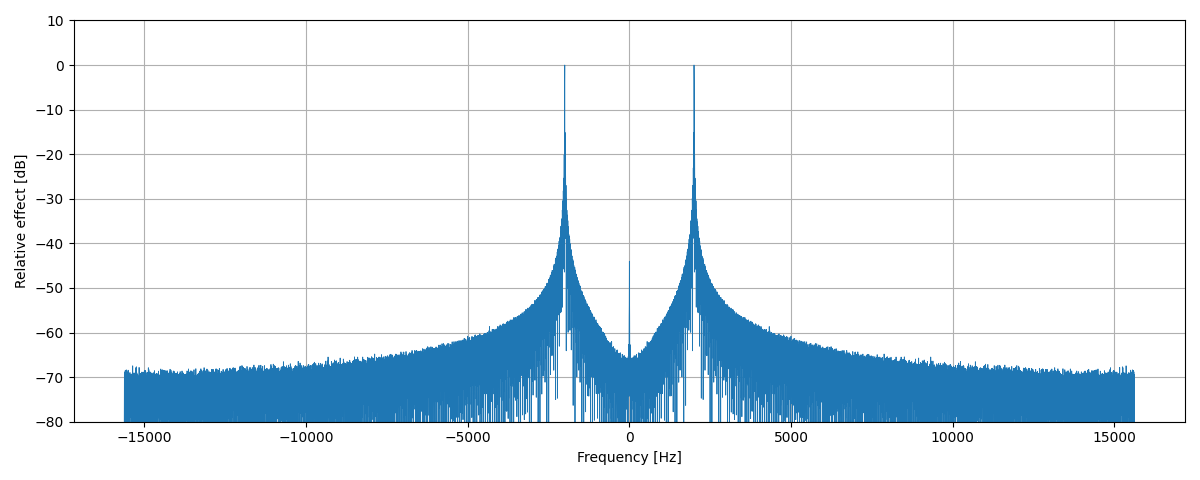
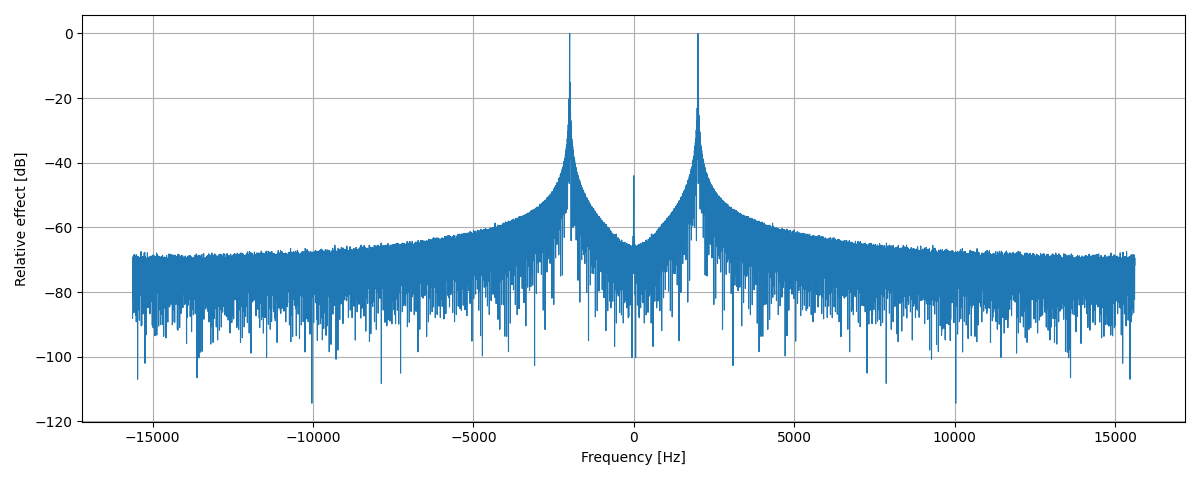
feat: hanning window

diff --git a/lab-1/script/main.py b/lab-1/script/main.py
@@ -1,7 +1,9 @@
 import sys
+from scipy.signal.windows import hann
+import numpy as np
 
 from raspi_import import raspi_import
-from plot import time_plot, spectrum_plot
+from plot import time_plot, spectrum_plot, bode_plot
 from fft import calc_spectrum
 
 missing_file_path_error = (
@@ -10,7 +12,7 @@ missing_file_path_error = (
 
 BIT_RESOLUTION = 4096
 V_REF = 3.3
-DC_VALUE = 1
+DC_OFFSET = 1
 
 
 def main():
@@ -21,17 +23,40 @@ def main():
 
     file_path = sys.argv[1]
 
+    #
+    # import adc data and remove dc component
+    #
     sample_period, data = raspi_import(file_path)
+    dc_component = DC_OFFSET / V_REF * BIT_RESOLUTION
+    data = data - dc_component
+
+    #
+    # import filter data
+    #
+    filter_data = np.genfromtxt(
+        "/Users/aasmundnorsett/Documents/NTNU/Semester6/Sensor/sensor-lab/lab-1/data/filter.csv",
+        delimiter=",",
+    )
+
+    bode_plot(filter_data[:, 0], filter_data[:, 1])
 
     #
     # example: plot slice of first data column
     #
     time_plot(data[2000:2100, 0], sample_period, show_plot=True)
 
-    dc_component = DC_VALUE / V_REF * BIT_RESOLUTION
+    #
+    # example: caluculate and plot power spectrum with and wihtout hann window
+    #
     NFFT = 8192
+    data_slice = data[2000:8000, 0]
 
-    data_spec = calc_spectrum(data[2000:8000, 0] - dc_component, NFFT)
+    data_spec = calc_spectrum(data_slice, NFFT)
+    spectrum_plot(data_spec, sample_period, show_plot=True)
+
+    data_windowed = data_slice * hann(len(data_slice))
+
+    data_spec = calc_spectrum(data_windowed, NFFT)
     spectrum_plot(data_spec, sample_period, show_plot=True)
 
 

diff --git a/lab-1/script/plot.py b/lab-1/script/plot.py
@@ -6,6 +6,24 @@ from scipy.fft import fftfreq, fftshift
 resolution = 0.8e-3
 
 
+def bode_plot(data_x, data_y, title="", show_plot=True):
+    plt.plot(data_x, data_y)
+
+    plt.xlabel("Frequency [Hz]")
+    plt.ylabel("Magnitude [dB]")
+    plt.title(title)
+
+    plt.grid(linestyle=":")
+    plt.tight_layout()
+    plt.xscale("log")
+
+    # allows modification of the plot outside of the function
+    if not show_plot:
+        return
+
+    plt.show()
+
+
 def time_plot(data, sample_period, title="", show_plot=True):
     # create scaled time axis
     t = np.arange(0, (len(data) - 0.5) * sample_period, sample_period)
@@ -40,13 +58,11 @@ def spectrum_plot(data, sample_period, title="", show_plot=True):
     f = np.arange(-Fs / 2, Fs / 2, df)
 
     plt.figure().set_figwidth(12)
-    plt.plot(f, data, linewidth=0.6)
+    plt.plot(f, data, linewidth=0.8)
 
     plt.xlabel("Frequency [Hz]")
     plt.ylabel("Relative effect [dB]")
     plt.title(title)
-
-    plt.ylim([-80, 10])
 
     plt.tight_layout()
     plt.grid()

diff --git a/lab-1/answers.md b/lab-1/answers.md
@@ -21,4 +21,8 @@ $$\frac{1}{2\pi\sqrt{LC}} = 23 \text{ Hz.}$$
 ![all-channels](./img/channels.png)
 ![all-channels](./img/channels-compared.png)
 
-![spectrum](./img/spectrum-test.png)
+-  Spectrum with and without hannings window.
+   ![spectrum](./img/spectrum-test.png)
+   ![spectrum](./img/spectrum-test-hann.png)
+
+- 
